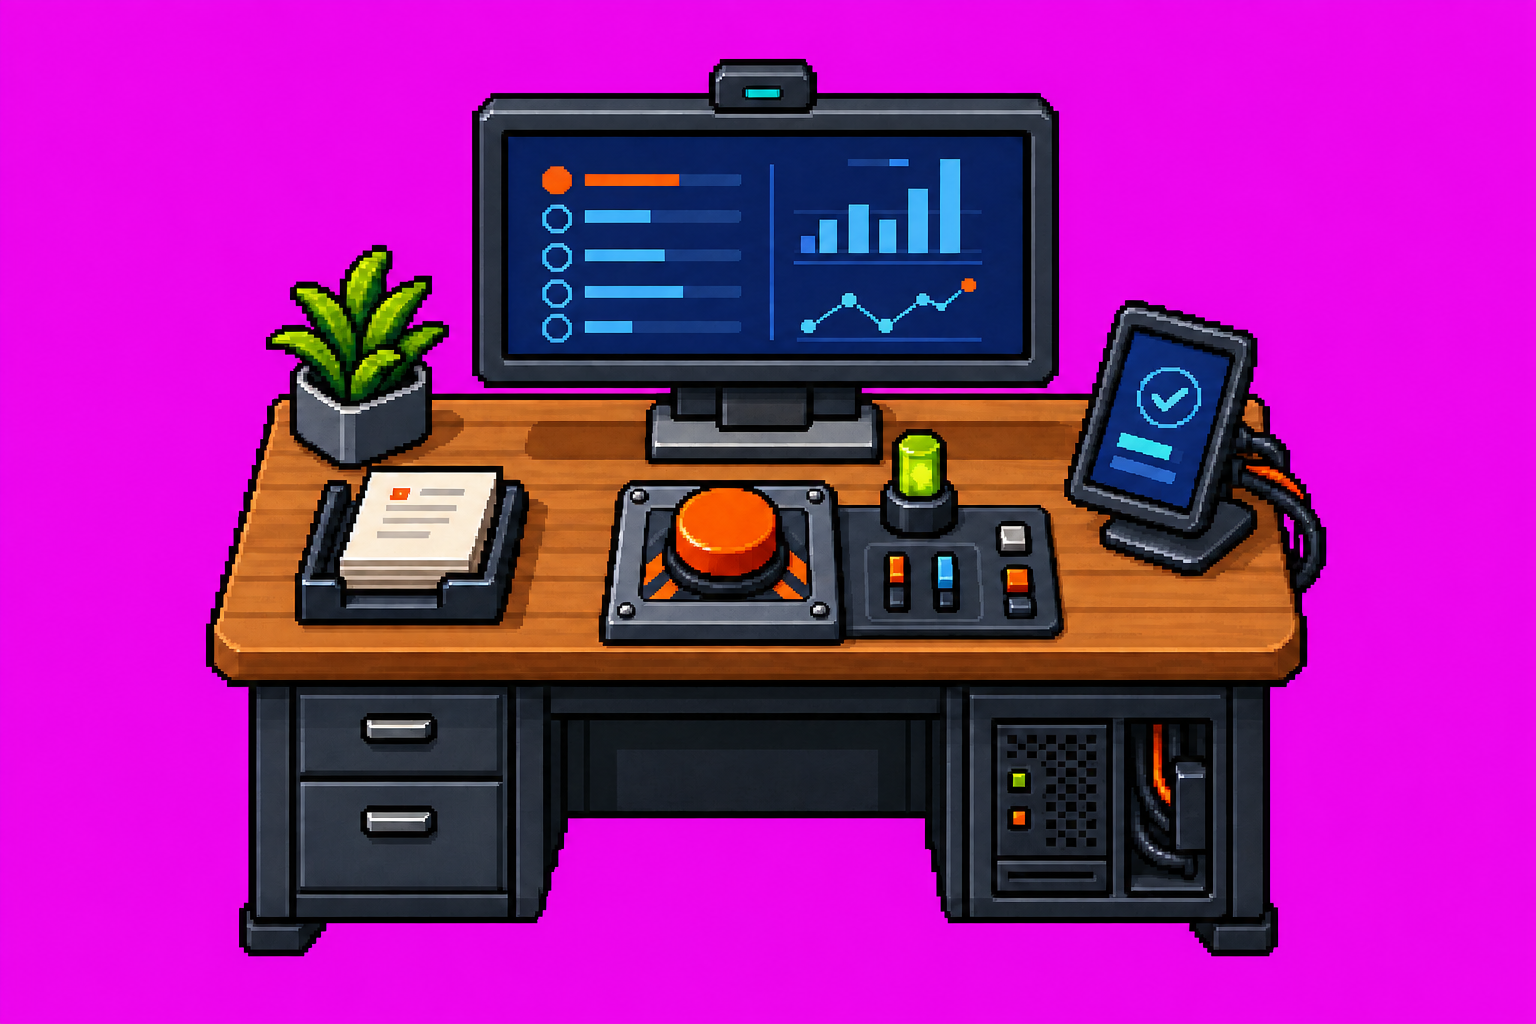
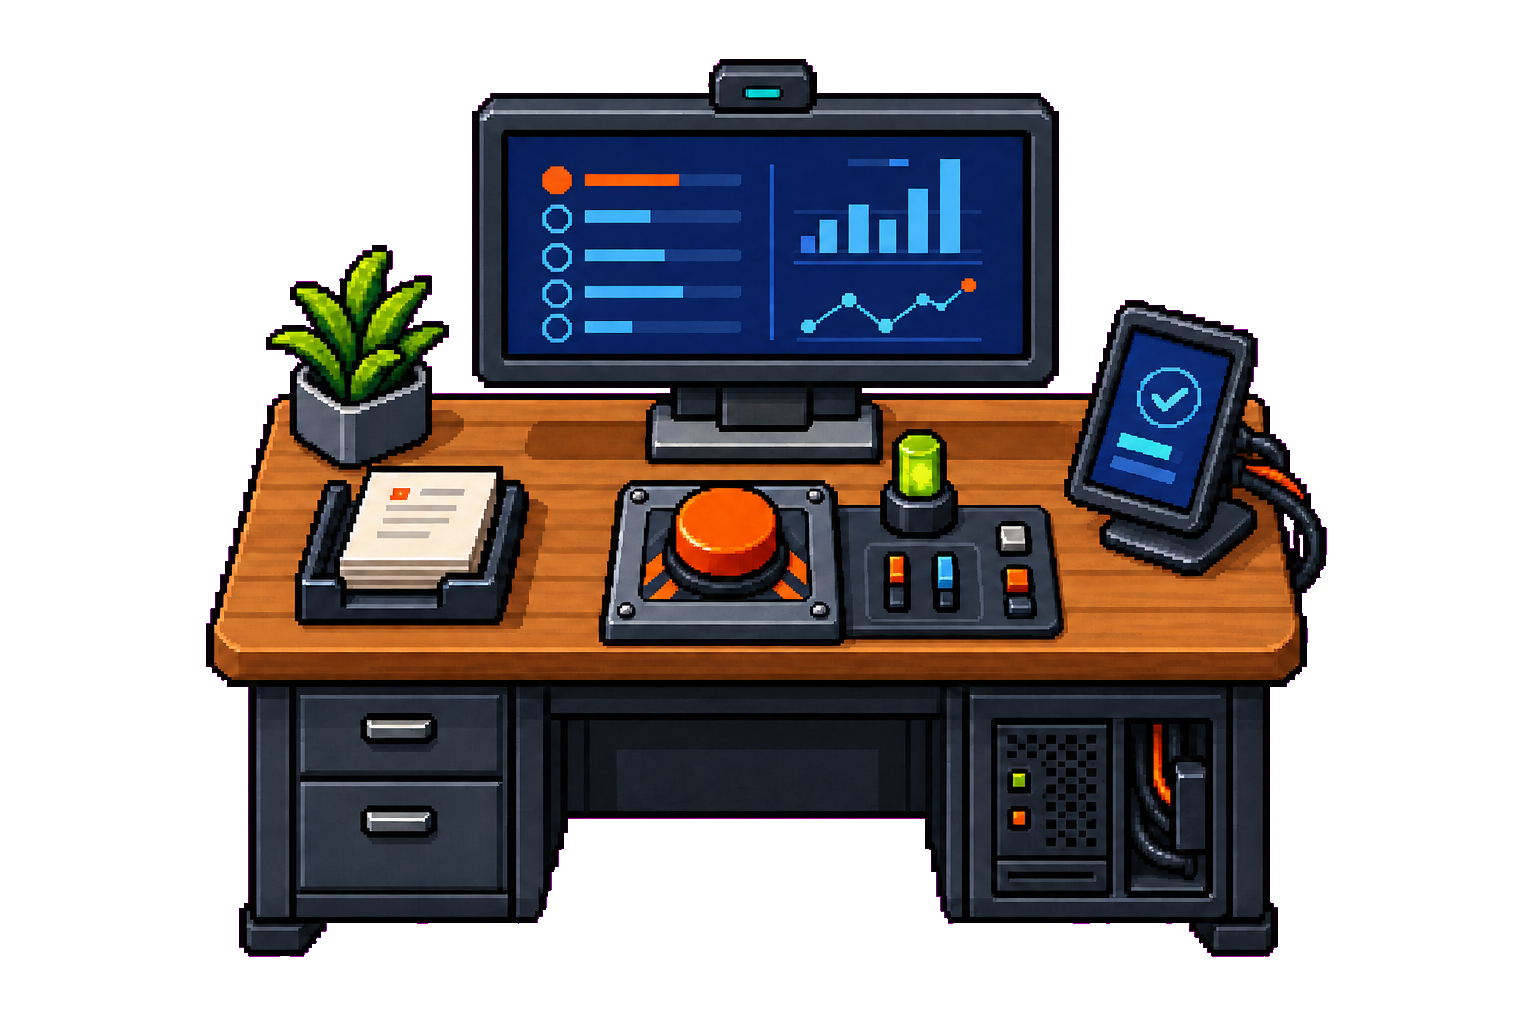
fix(game): ship transparent office props

diff --git a/game/assets/runtime/office/README.md b/game/assets/runtime/office/README.md
@@ -12,7 +12,7 @@ The runtime office is assembled in layers so moving characters can sort correctl
 - `prototype-bench.png` is the fourth-hire maker station.
 - `main-office-background.png` is retained only as the mature-office composition reference; it is no longer rendered by the game.
 
-The coffee, approval, archive, and prototype source plates use a uniform magenta production key because the image generator would not preserve a clean alpha channel. Their typed prop scenes apply `chroma_key.gdshader` at render time; the keyed color is never visible in game.
+The coffee, approval, archive, and prototype source plates were generated on uniform magenta production fields because the image generator would not preserve clean alpha. The checked-in runtime images were deterministically matte-converted to genuine transparency, so every prop scene now renders a normal alpha PNG without a special material.
 
 `TownRoom` scales the shell to the existing 26 × 18 logical grid, instantiates typed prop scenes from `res://data/town.json`, and covers unavailable wings with collidable renovation panels. Props and live characters receive absolute Z order from their world Y coordinate. A desk's work point is behind its anchor so the employee is visibly occluded by the desk while working.
 
